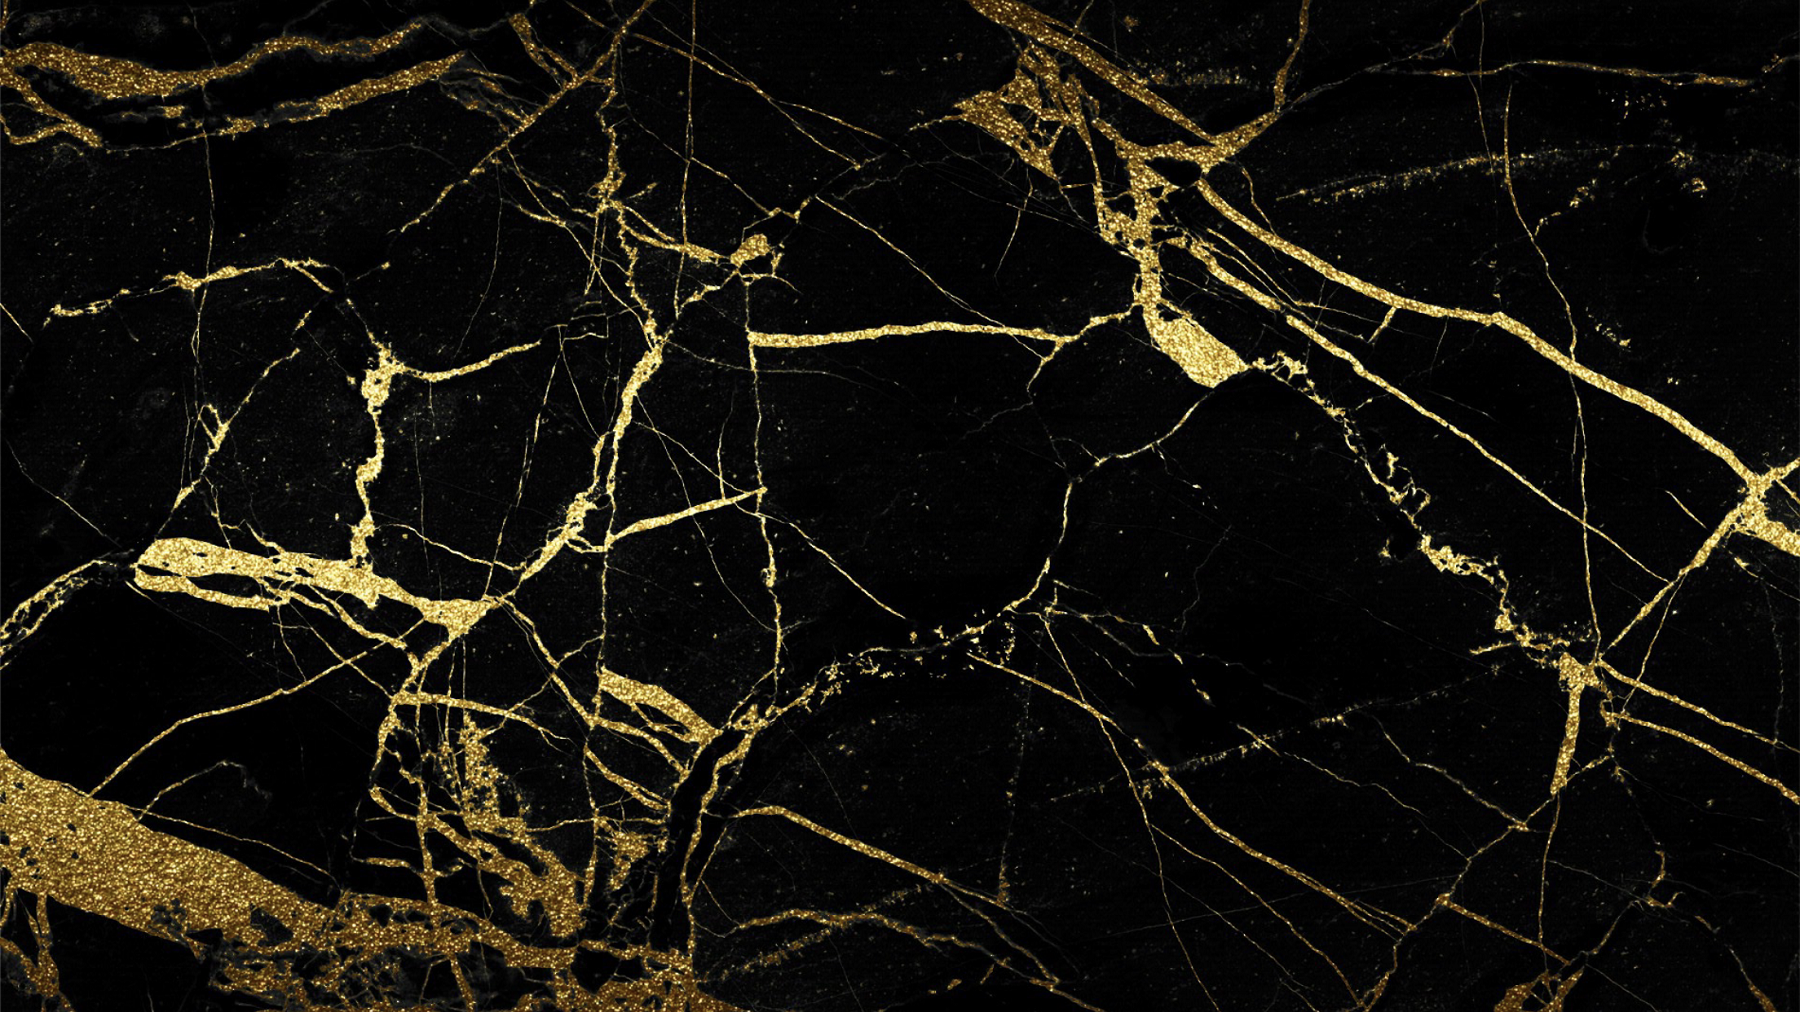
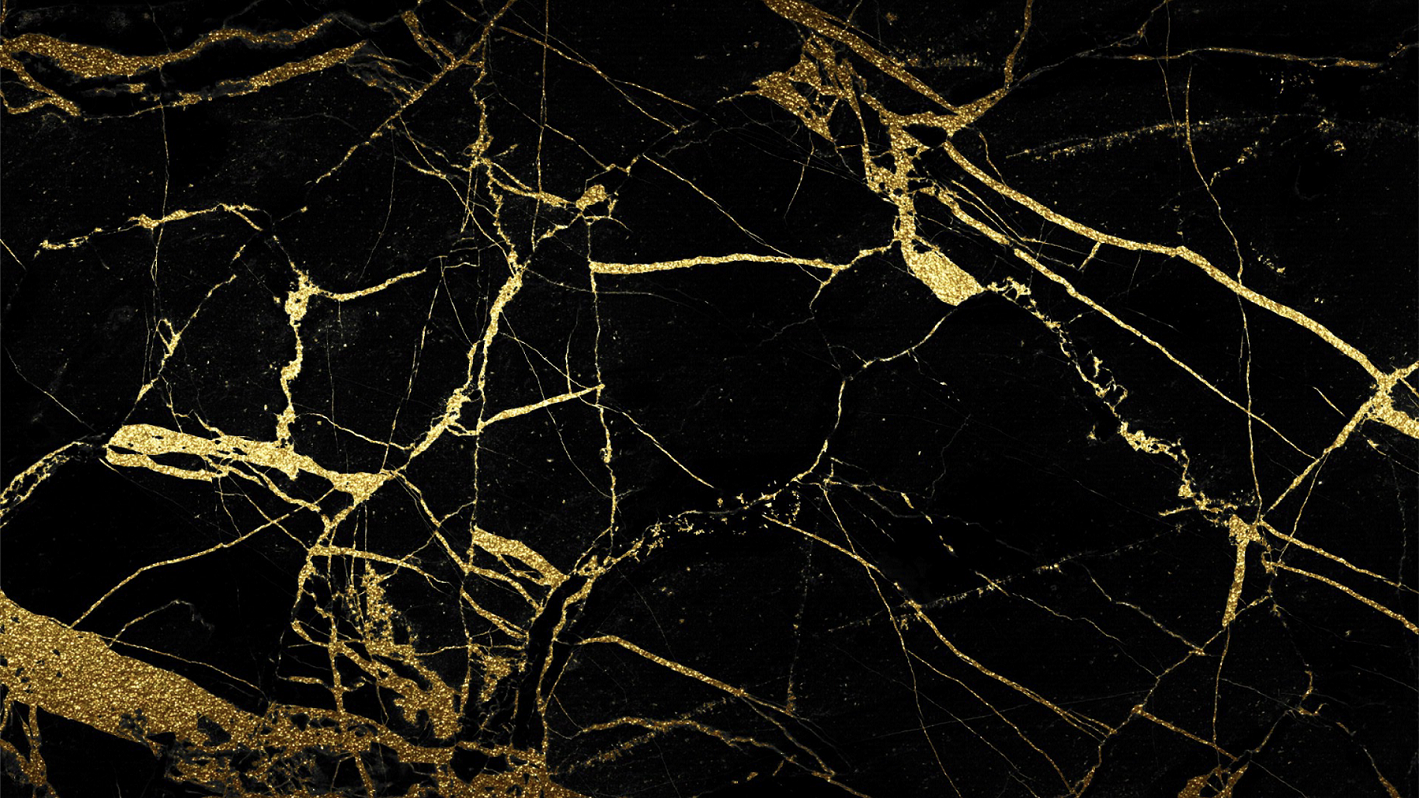
trying black marble again, resized picture

diff --git a/css/style.css b/css/style.css
@@ -61,13 +61,13 @@ a:focus{
 	text-decoration: none;
 }
 #home{
-	background: url(../img/bg1.jpg);
+	background: url(../img/BlackMarble0.jpg);
 	background-size: cover;
 	background-position: center;
 	background-repeat: no-repeat;
 	background-attachment: fixed;
 	height: auto;
-	min-height: 710px;	
+	min-height: 710px;
 	padding-top: 60px;
 	color: #ffffff;
 }
@@ -93,11 +93,11 @@ a:focus{
 .header-text.btn:hover{
 	color: inherit;
 }
-.header-text.btn:focus, 
-.header-text.btn:active:focus, 
-.header-text.btn.active:focus, 
-.header-text.btn.focus, 
-.header-text.btn:active.focus, 
+.header-text.btn:focus,
+.header-text.btn:active:focus,
+.header-text.btn.active:focus,
+.header-text.btn.focus,
+.header-text.btn:active.focus,
 .header-text.btn.active.focus {
 	outline: thin dotted transparent;
 	outline: none;
@@ -132,7 +132,7 @@ span.typed-cursor {
 	position: relative;
 }
 /*.header-text{
-	margin-top: 20px;	
+	margin-top: 20px;
 	position: absolute;
 	border: 1px solid #ffffff;
 	left: 25%;
@@ -156,15 +156,15 @@ nav#menu span.fa.fa-bars{
 width: 270px;
 z-index: 10;
 }
-.navmenu-default, 
+.navmenu-default,
 .navbar-default .navbar-offcanvas {
 	background-color: #1E2429;
 	border-color: #1E2429;
 	border: 0;
 }
-.navmenu-default .navmenu-nav>li>a:hover, 
-.navbar-default .navbar-offcanvas .navmenu-nav>li>a:hover, 
-.navmenu-default .navmenu-nav>li>a:focus, 
+.navmenu-default .navmenu-nav>li>a:hover,
+.navbar-default .navbar-offcanvas .navmenu-nav>li>a:hover,
+.navmenu-default .navmenu-nav>li>a:focus,
 .navbar-default .navbar-offcanvas .navmenu-nav>li>a:focus {
 color: #C59A6D;
 background-color: transparent;
@@ -174,7 +174,7 @@ position: relative;
 display: block;
 text-align: center;
 }
-.navmenu-default .navmenu-nav>li>a, 
+.navmenu-default .navmenu-nav>li>a,
 .navbar-default .navbar-offcanvas .navmenu-nav>li>a {
 color: #ffffff;
 text-transform: uppercase;
@@ -184,11 +184,11 @@ line-height: 30px;
 nav#menu span.fa.fa-bars:hover {
 color: #C59A6D;
 }
-.navmenu-default .navmenu-nav>.active>a, 
-.navbar-default .navbar-offcanvas .navmenu-nav>.active>a, 
-.navmenu-default .navmenu-nav>.active>a:hover, 
-.navbar-default .navbar-offcanvas .navmenu-nav>.active>a:hover, 
-.navmenu-default .navmenu-nav>.active>a:focus, 
+.navmenu-default .navmenu-nav>.active>a,
+.navbar-default .navbar-offcanvas .navmenu-nav>.active>a,
+.navmenu-default .navmenu-nav>.active>a:hover,
+.navbar-default .navbar-offcanvas .navmenu-nav>.active>a:hover,
+.navmenu-default .navmenu-nav>.active>a:focus,
 .navbar-default .navbar-offcanvas .navmenu-nav>.active>a:focus {
 color: #C59A6D;
 background-color: transparent;
@@ -557,28 +557,28 @@ margin-bottom: 30px;
 	-webkit-box-shadow: none;
 	box-shadow: none;
 }
-input::-webkit-input-placeholder, textarea::-webkit-input-placeholder { 
+input::-webkit-input-placeholder, textarea::-webkit-input-placeholder {
     color:    #222222;
     font-family: 'Lato', sans-serif;
     font-size: 13px;
     letter-spacing: 1px;
     font-style: italic;
 }
-input:-moz-placeholder, textarea:-moz-placeholder { 
+input:-moz-placeholder, textarea:-moz-placeholder {
     color:    #222222;
     font-family: 'Lato', sans-serif;
     font-size: 13px;
     letter-spacing: 1px;
     font-style: italic;
 }
-input::-moz-placeholder, textarea::-moz-placeholder { 
+input::-moz-placeholder, textarea::-moz-placeholder {
     color:    #222222;
     font-family: 'Lato', sans-serif;
     font-size: 13px;
     letter-spacing: 1px;
     font-style: italic;
 }
-input:-ms-input-placeholder, textarea:-ms-input-placeholder { 
+input:-ms-input-placeholder, textarea:-ms-input-placeholder {
     color:    #222222;
     font-family: 'Lato', sans-serif;
     font-size: 13px;
